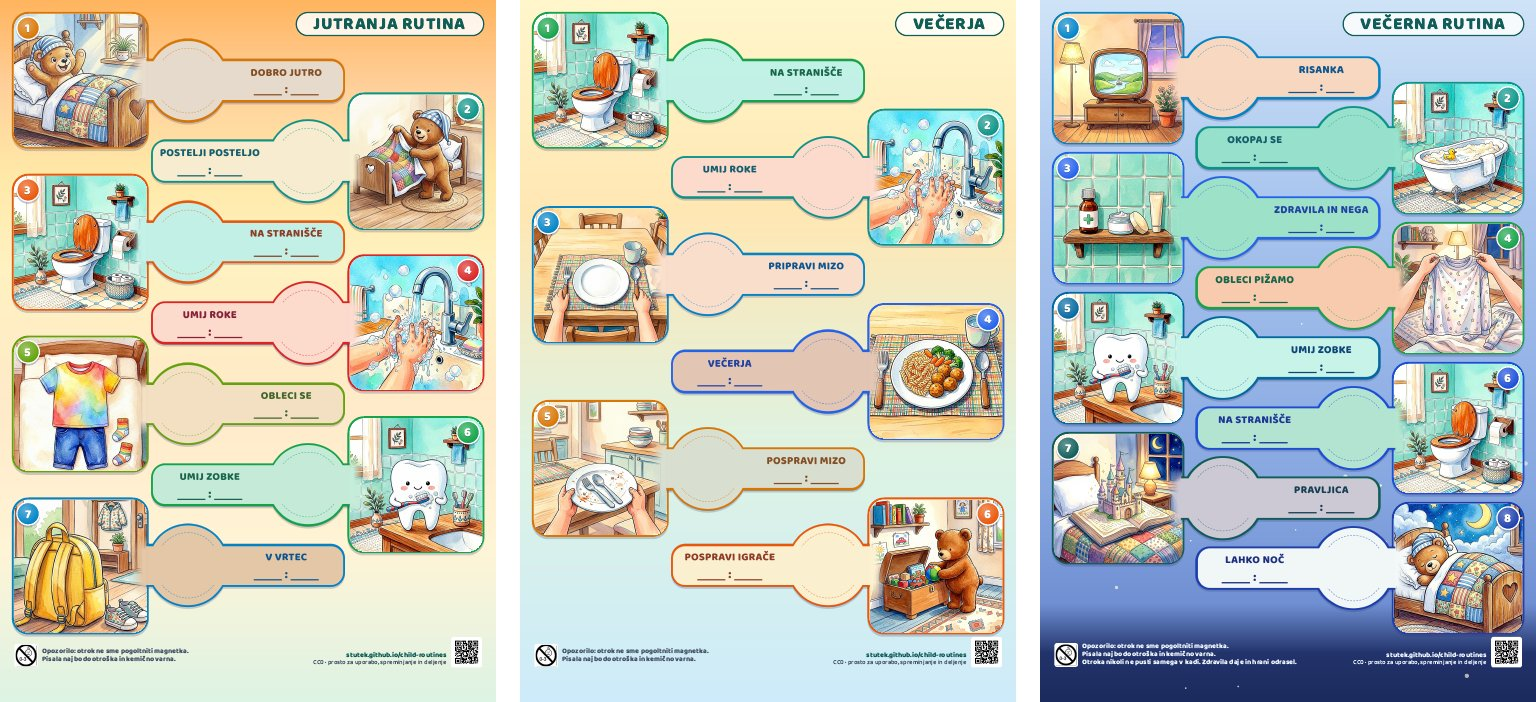
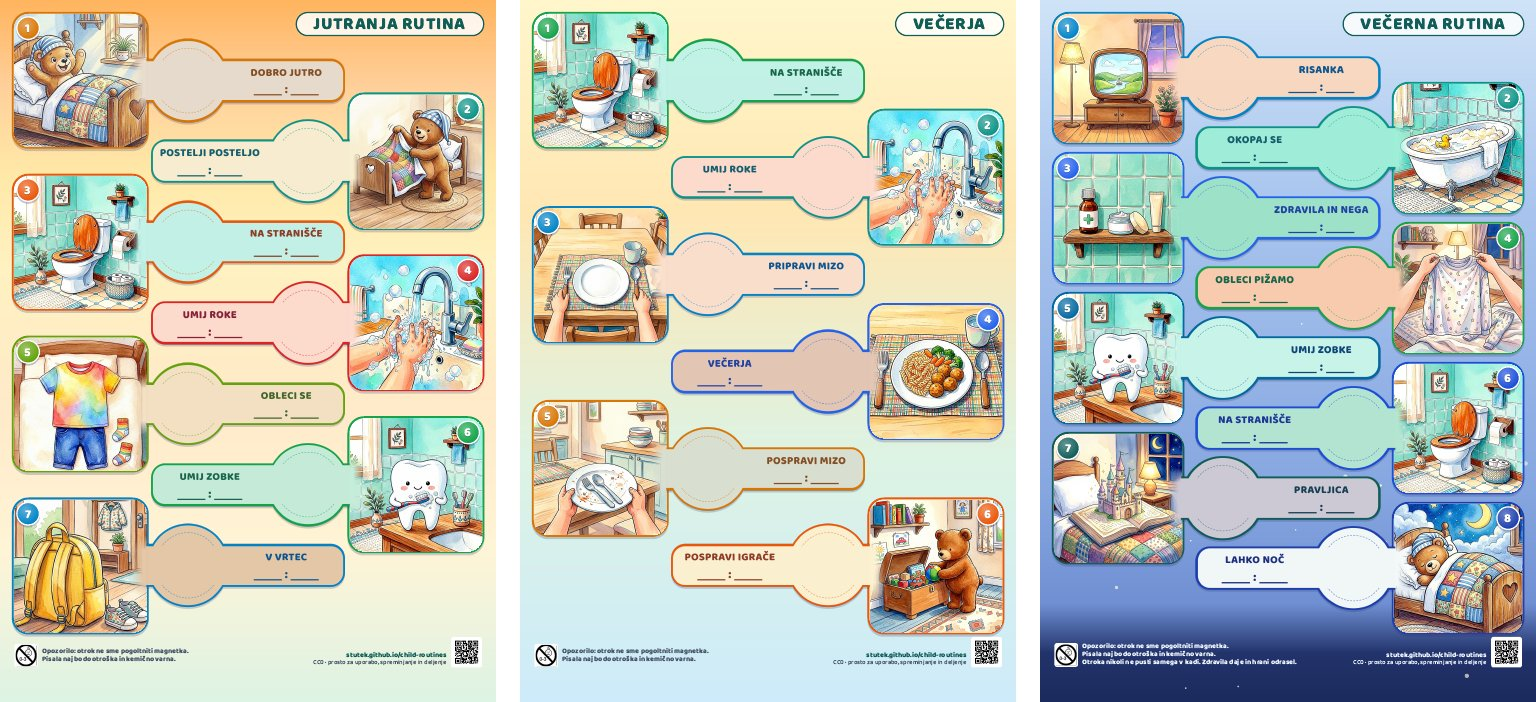
Picture: bath cropped to the tub, which is larger

Changed region(s): [[0.9062, 0.1197, 1.0, 0.2991]]

diff --git a/output/en-example.html b/output/en-example.html
@@ -442,11 +442,11 @@
         </div>
         <div class="rt-check"></div>
       </div>
-      <div class="rt-pic pic-right" style="--step: #0D9488; --bg: #98E3CD; --ink: #155E6D; --y: 57.643mm;">
+      <div class="rt-pic pic-right" style="--step: #0D9488; --bg: #A0EFD9; --ink: #155E6D; --y: 57.643mm;">
         <img src="../images/bath.jpg" alt="Bath time" />
         <div class="rt-num">2</div>
       </div>
-      <div class="rt-card card-right" style="--step: #0D9488; --bg: #98E3CD; --ink: #155E6D; --y: 57.643mm;">
+      <div class="rt-card card-right" style="--step: #0D9488; --bg: #A0EFD9; --ink: #155E6D; --y: 57.643mm;">
         <div class="rt-text">
           <div class="rt-label">BATH TIME</div>
           <div class="rt-time"><span class="blank"></span>:<span class="blank"></span></div>

diff --git a/output/sl-primer.html b/output/sl-primer.html
@@ -431,11 +431,11 @@
         </div>
         <div class="rt-check"></div>
       </div>
-      <div class="rt-pic pic-right" style="--step: #0D9488; --bg: #98E3CD; --ink: #155E6D; --y: 57.643mm;">
+      <div class="rt-pic pic-right" style="--step: #0D9488; --bg: #A0EFD9; --ink: #155E6D; --y: 57.643mm;">
         <img src="../images/bath.jpg" alt="Okopaj se" />
         <div class="rt-num">2</div>
       </div>
-      <div class="rt-card card-right" style="--step: #0D9488; --bg: #98E3CD; --ink: #155E6D; --y: 57.643mm;">
+      <div class="rt-card card-right" style="--step: #0D9488; --bg: #A0EFD9; --ink: #155E6D; --y: 57.643mm;">
         <div class="rt-text">
           <div class="rt-label">OKOPAJ SE</div>
           <div class="rt-time"><span class="blank"></span>:<span class="blank"></span></div>

diff --git a/web/data.js b/web/data.js
@@ -745,7 +745,7 @@ window.SHEET_DATA = {
  }
 };
 window.SHEET_EDGES = {
-  "bath": ["#B3F4EE", "#98E3CD"],
+  "bath": ["#87DCD9", "#A0EFD9"],
   "breakfast": ["#FFCE86", "#FFD68A"],
   "brush-teeth": ["#CAF5EA", "#C6ECDA"],
   "care": ["#9EE3CA", "#BAE9D2"],
